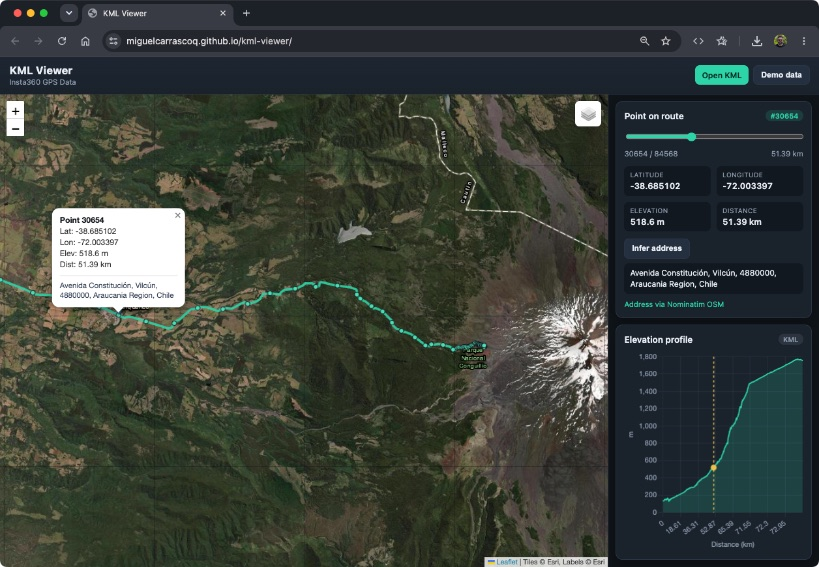
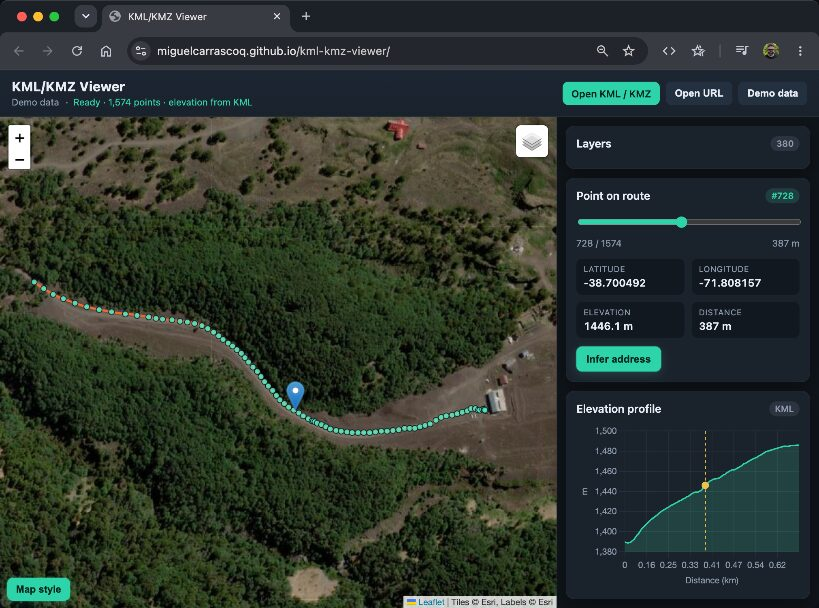
Update README.md with live demo link and remove redundant publication note
- Added a live demo link to the README for easier access to the project.
- Removed the previously mentioned publication note to streamline the documentation.

diff --git a/README.md b/README.md
@@ -2,6 +2,8 @@
 
 Web-based KML and KMZ route viewer for desktop and mobile. Works on **GitHub Pages** with no paid map API keys.
 
+**Live demo:** https://miguelcarrascoq.github.io/kml-kmz-viewer/
+
 Built with **TypeScript + Vite** (no UI framework). Leaflet and Chart.js stay imperative for the map and elevation profile.
 
 ![KML/KMZ Viewer preview](docs/preview.jpg)
@@ -54,8 +56,6 @@ npm run typecheck
 ```
 
 ## GitHub Pages
-
-Published at: https://miguelcarrascoq.github.io/kml-kmz-viewer/
 
 CI builds with Vite and deploys `dist/` via [`.github/workflows/deploy.yml`](.github/workflows/deploy.yml). In the repo **Settings → Pages**, set the source to **GitHub Actions** (not “Deploy from a branch”).
 
